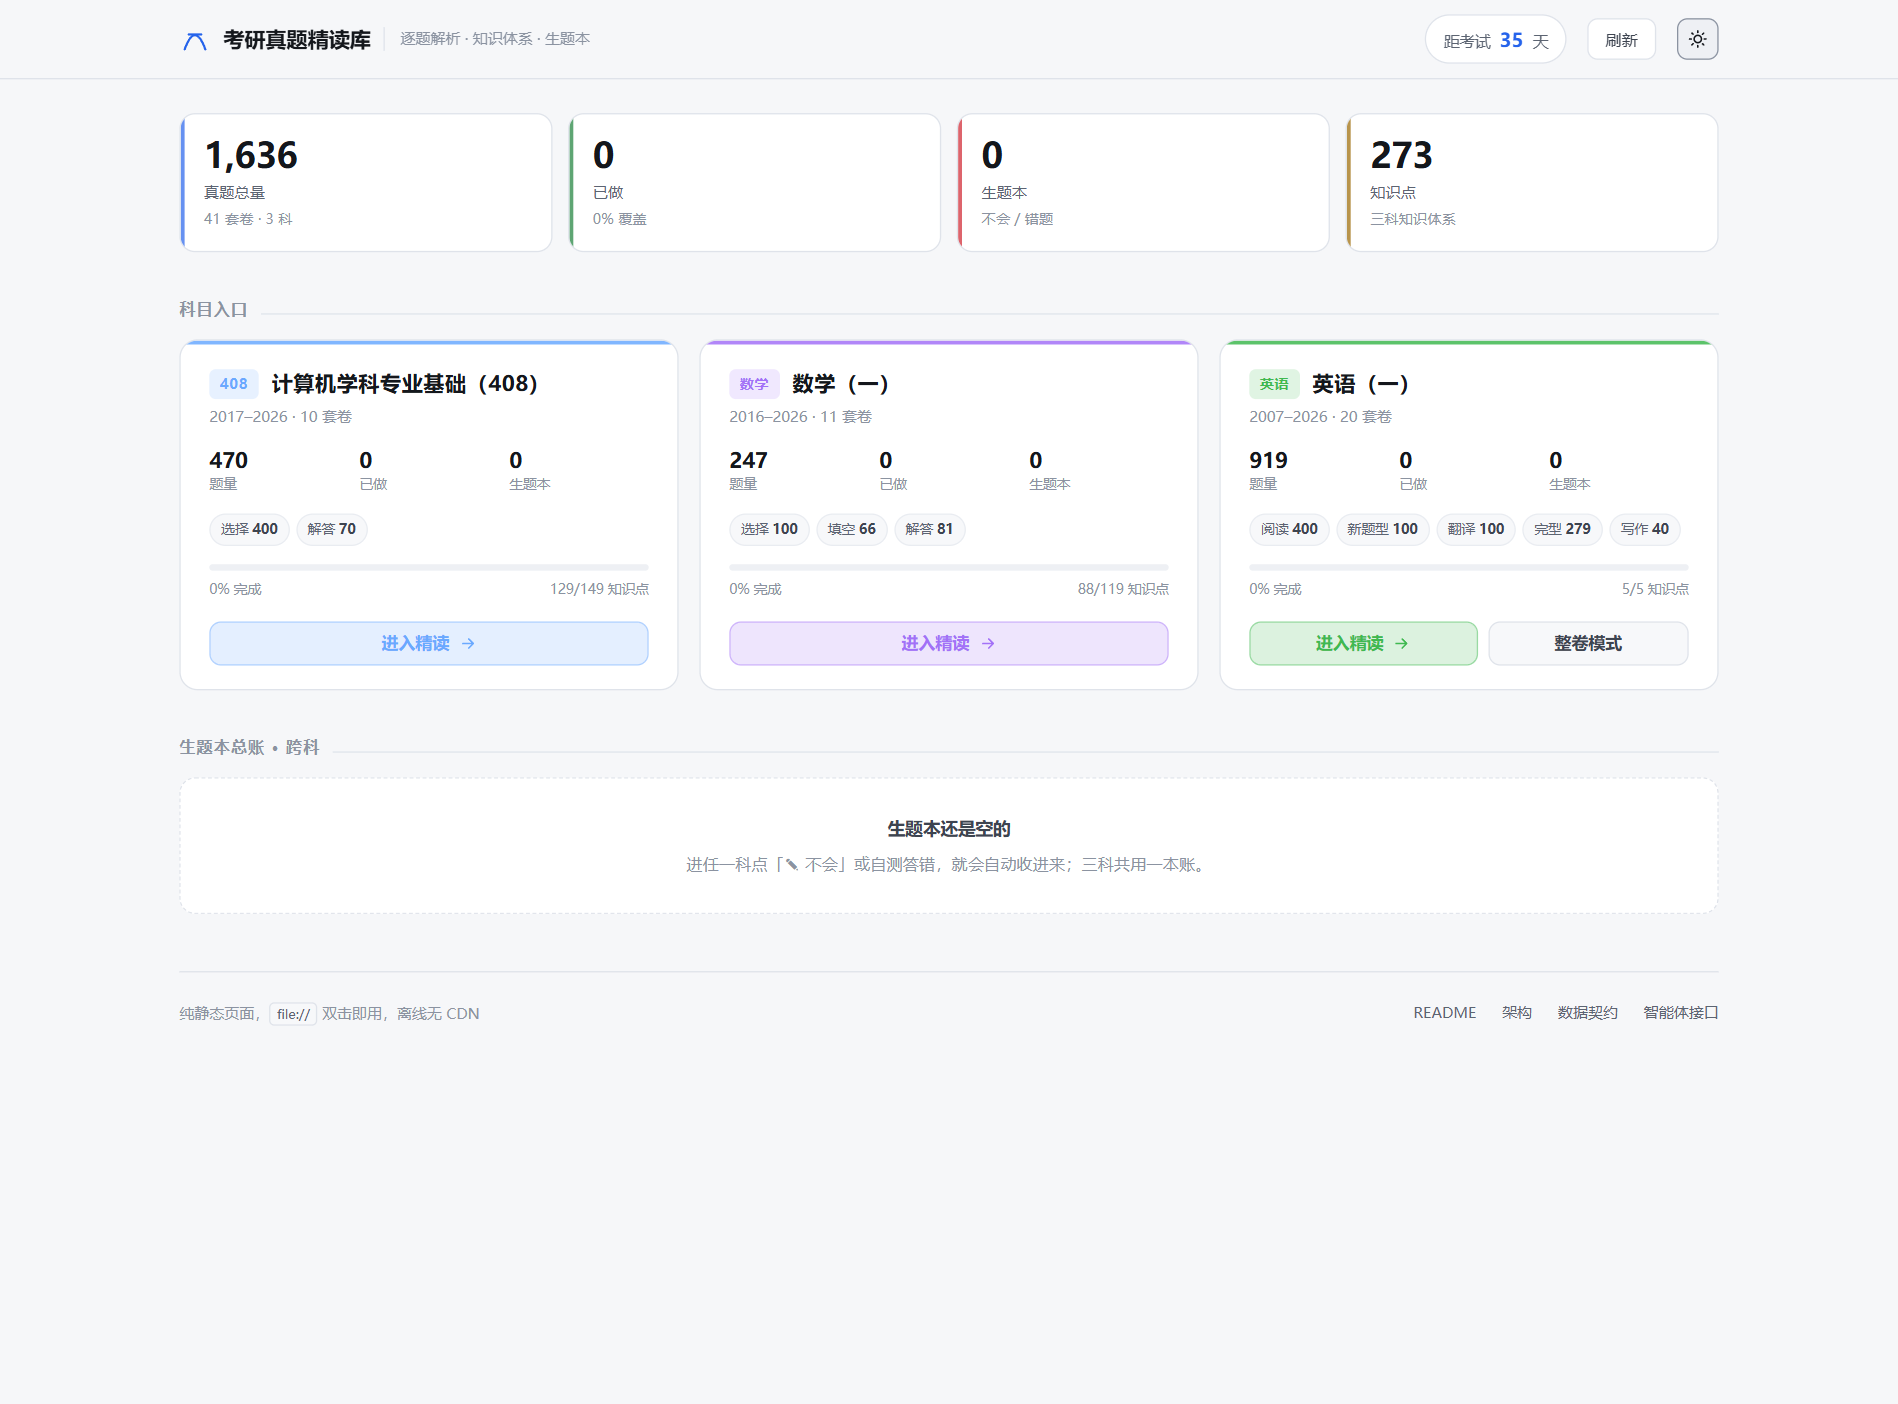
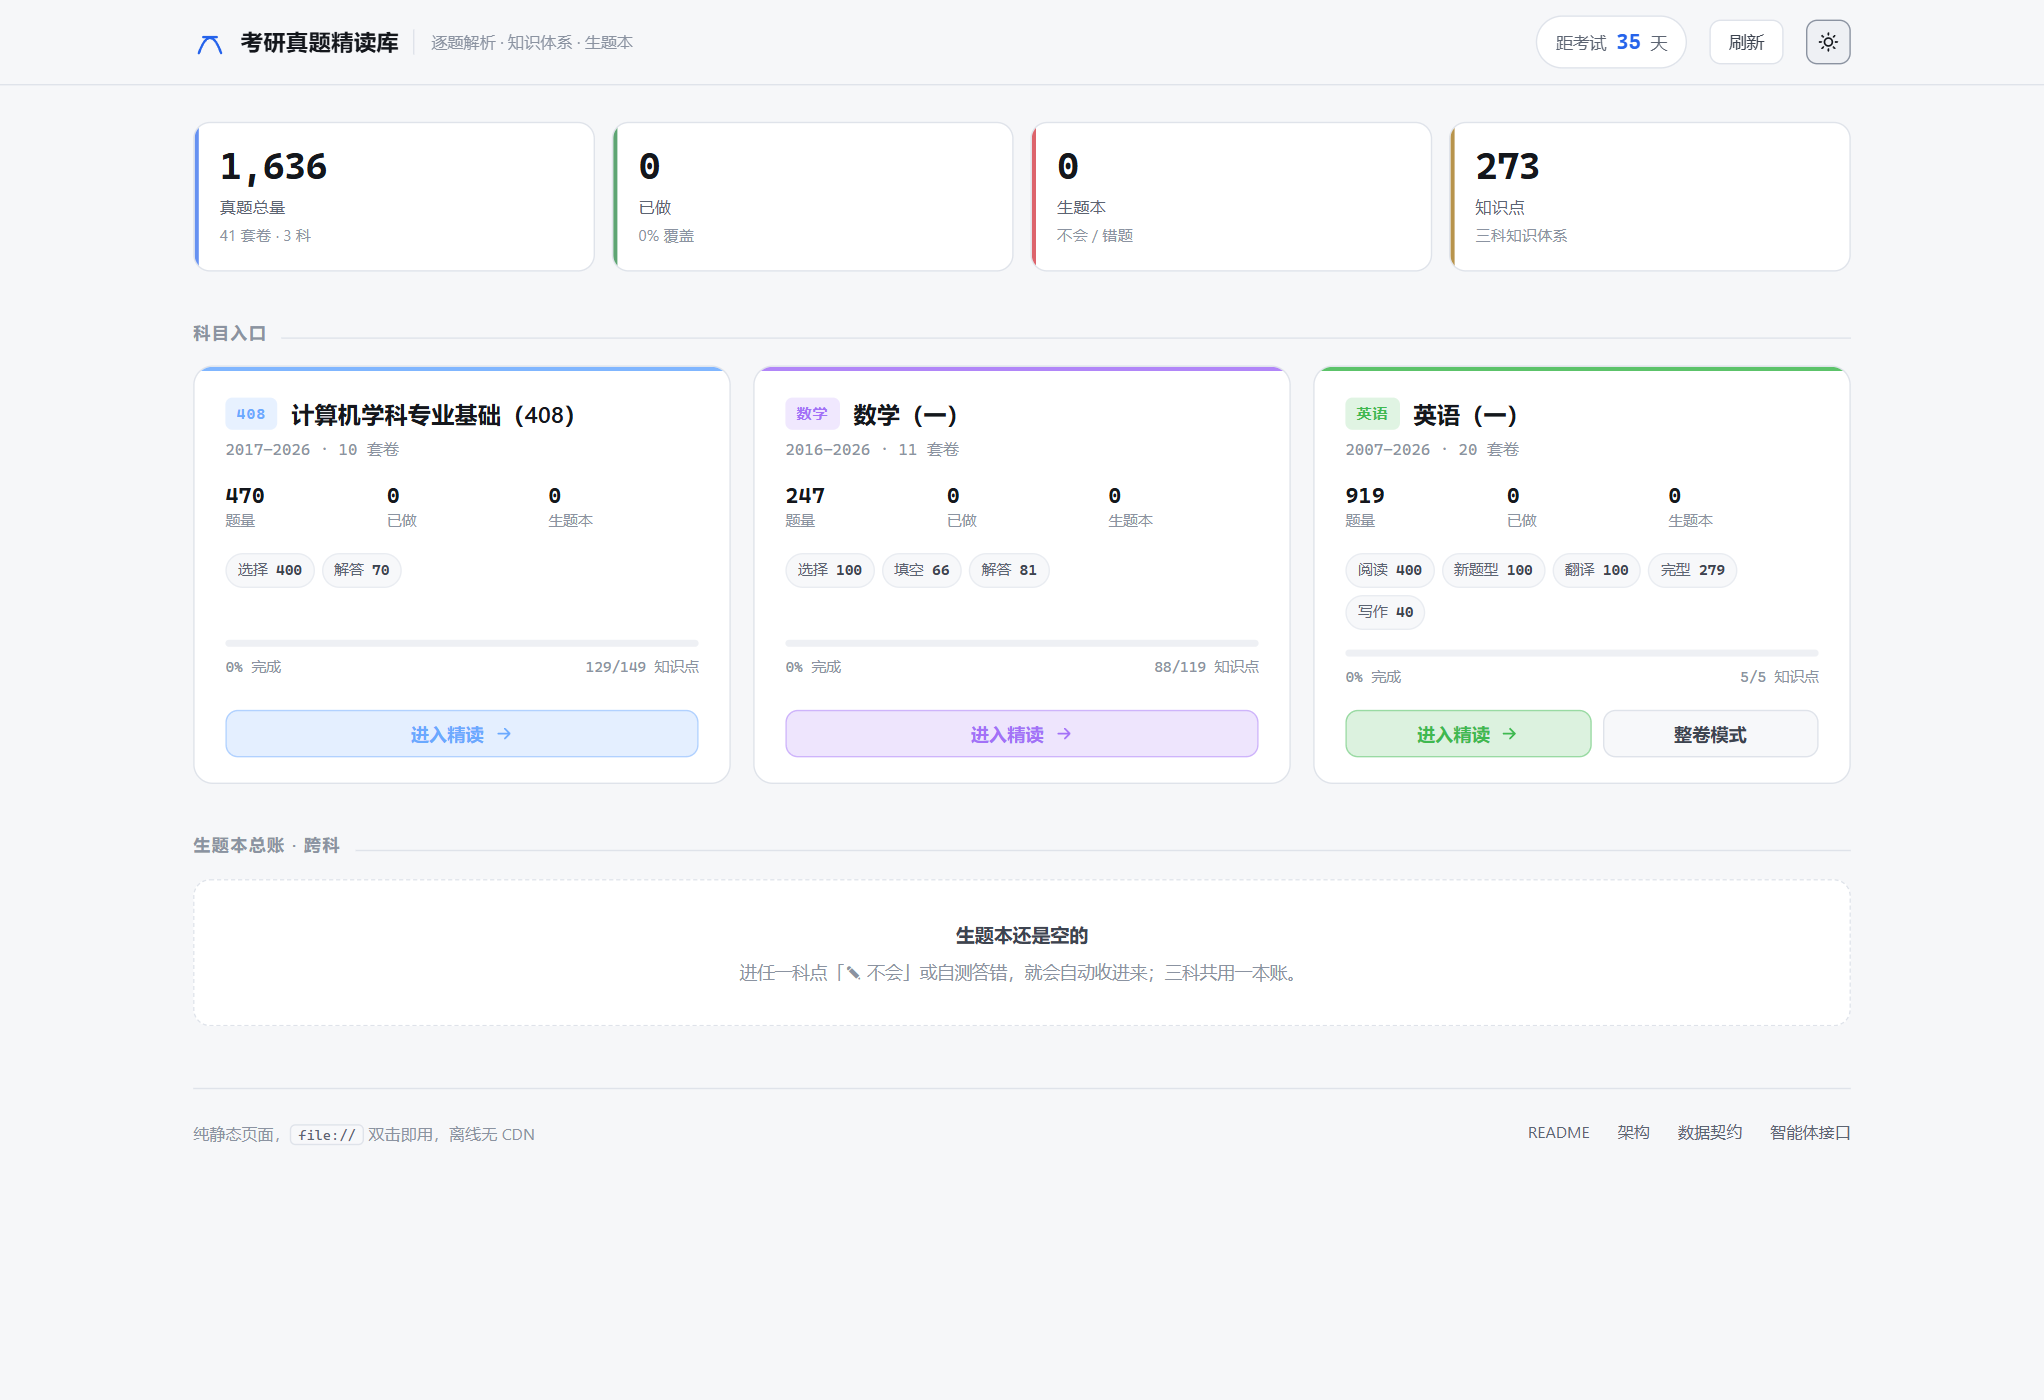
修复总入口样式被注释提前终止吃掉 :root 的问题
hub.css 头部注释里的 subjects/*/assets/style.css 含 */，导致注释在第 2 行提前关闭，
后面的 :root 令牌块被当成乱码 CSS 丢弃 —— 表现为总入口退化成无主题的浅色页面。

- 改写注释措辞，去掉 */ 序列
- .tabs-row 加 min-height:48px，三科卡片进度条与按钮纵向对齐
- 补 hub-wrongbook.png（生题本总账演示）与 hub-light.png（浅色）

diff --git a/shared/hub.css b/shared/hub.css
@@ -1,6 +1,6 @@
 /* ============================================================
    考研真题精读库 · 总入口样式
-   自包含（不依赖 subjects/*/assets/style.css），令牌与各科一致
+   自包含（不依赖各科 assets/style.css），令牌与三科逐字一致
    ============================================================ */
 
 :root {
@@ -336,6 +336,8 @@ a { color: inherit; text-decoration: none; }
   flex-wrap: wrap;
   gap: 5px;
   margin-bottom: 14px;
+  min-height: 48px;          /* 预留两行，三科卡片高度对齐 */
+  align-content: flex-start;
 }
 
 .chip {
